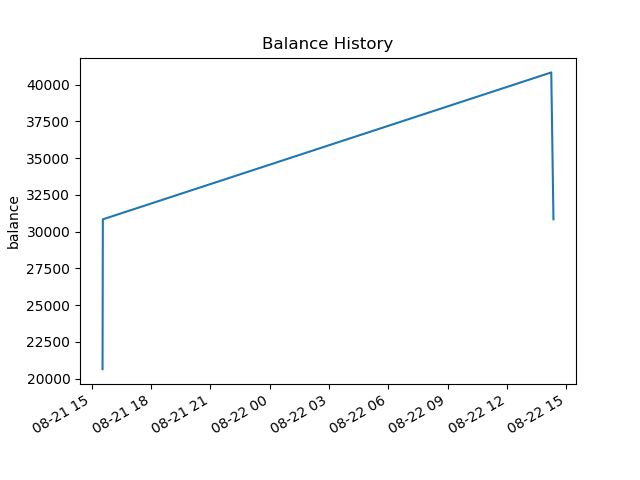
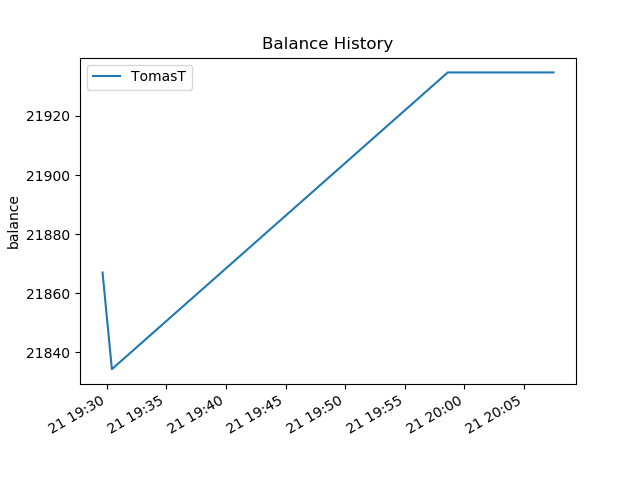
graph improvement/fix

diff --git a/bot.py b/bot.py
@@ -164,6 +164,7 @@ class DiscordCommand:
         msg += "!top - list worst investors \n"
         msg += "!buy - place BUY order \n"
         msg += "!stock - search for available STOCK \n"
+        msg += "!graph - graph users balance timeline \n"
         msg += "```"
         return msg
     @classmethod
@@ -437,19 +438,22 @@ class DiscordCommand:
     async def __run_graph(self):
         # require username argument
         if len(self.args) == 1:
-            await self.reply(["Username/Stock is missing"])
+            await self.reply(["Username(s) is missing, separate multiple users by **;**"])
             return
-
+        user_names = [user_name.strip() for user_name in " ".join(self.args[1:]).split(";")]
         users = User.find_all_by_name(self.args[1])
+
+        users = []
+        for user_name in user_names:
+            users.extend(User.find_all_by_name(user_name))
         
         if not users:
-            msg.append("No users found")
+            msg=["No users found"]
             await self.reply(msg)
+            return
         
-        user = users[0]
         # file
-        f = balance_graph(user.balance_histories)
-        await self.message.channel.send(f"**User**: {user.short_name()}")
+        f = balance_graph(users)
         fl = discord.File("tmp/balance.png", filename="balance.png")
         await self.message.channel.send(file=fl)
         

diff --git a/services/plotting.py b/services/plotting.py
@@ -4,15 +4,18 @@ matplotlib.use("Agg")
 import matplotlib.pyplot as plt
 
 
-def balance_graph(balance_histories):
-
-    x = [history.date_created for history in balance_histories] 
-    y = [history.balance for history in balance_histories] 
+def balance_graph(users):
 
     fig, ax = plt.subplots()
     ax.set_ylabel('balance')
     ax.set_title('Balance History')
-    ax.plot(x, y, markerfacecolor='CornflowerBlue', markeredgecolor='white')
+
+    for user in users:    
+        x = [history.date_created for history in user.balance_histories] 
+        y = [history.balance for history in user.balance_histories] 
+
+        ax.plot(x, y, markerfacecolor='CornflowerBlue', markeredgecolor='white', label=user.short_name())
+    ax.legend()
     fig.autofmt_xdate()
 
     return fig.savefig("tmp/balance.png")
